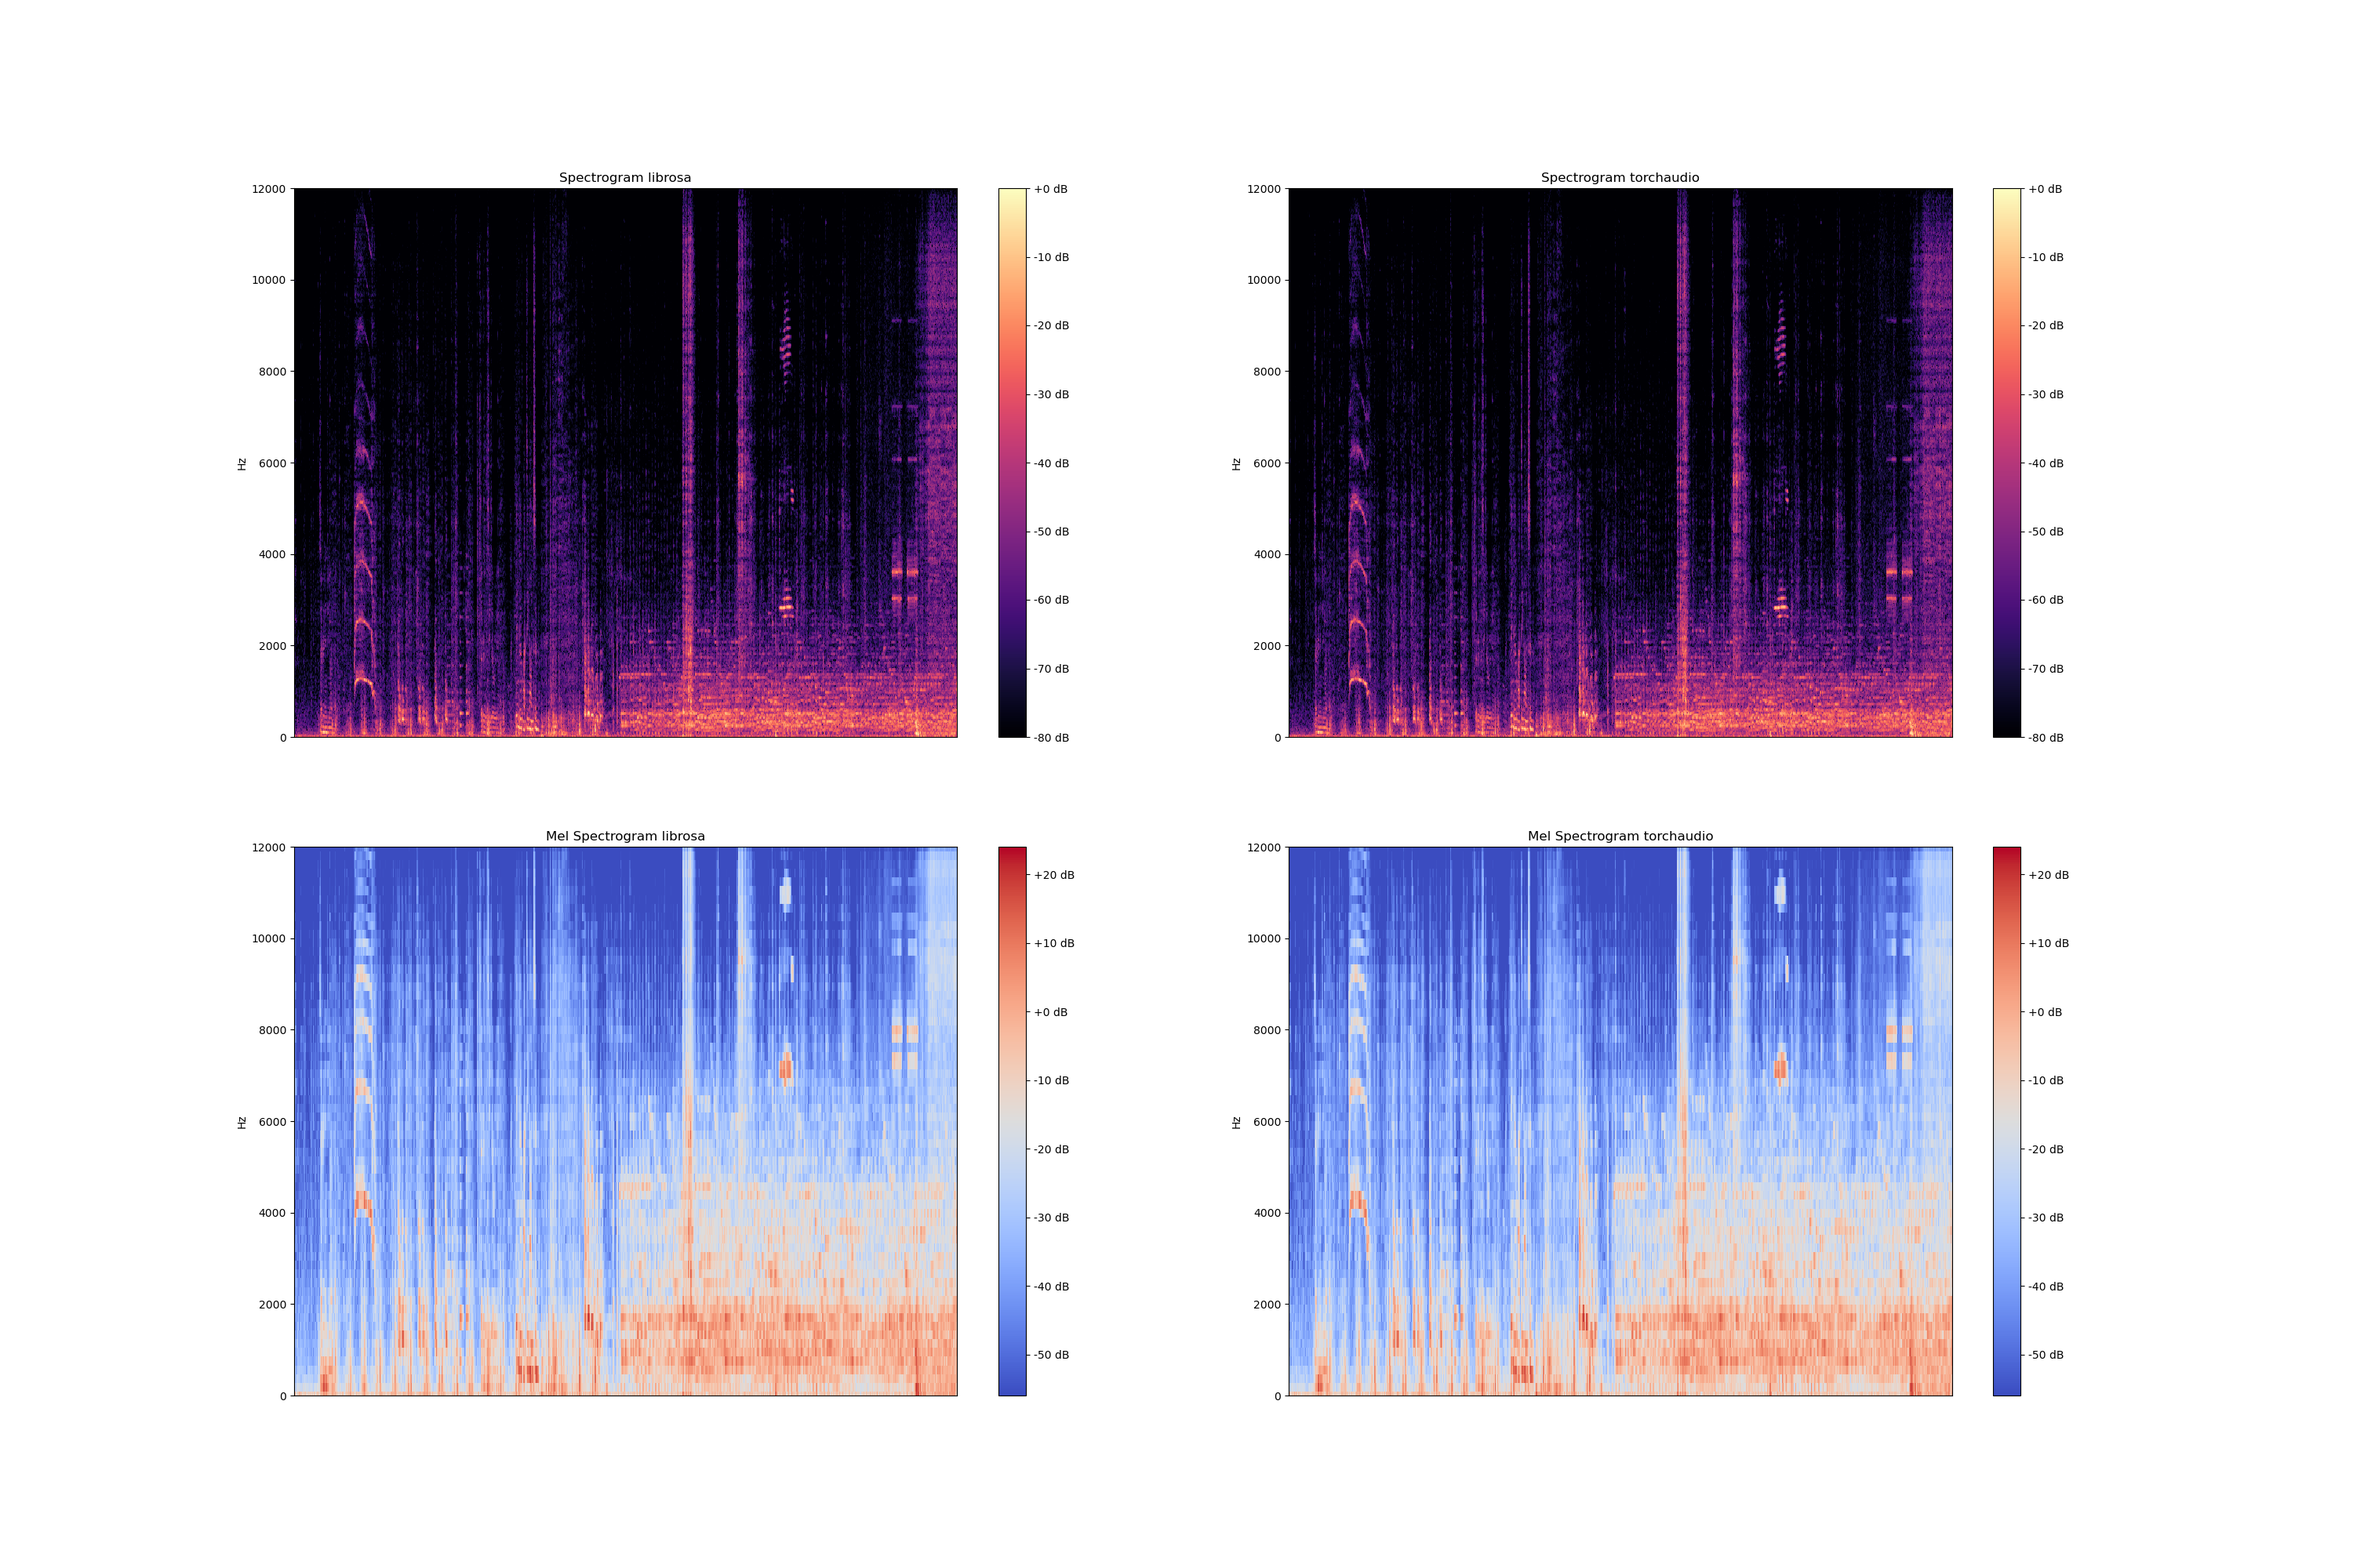
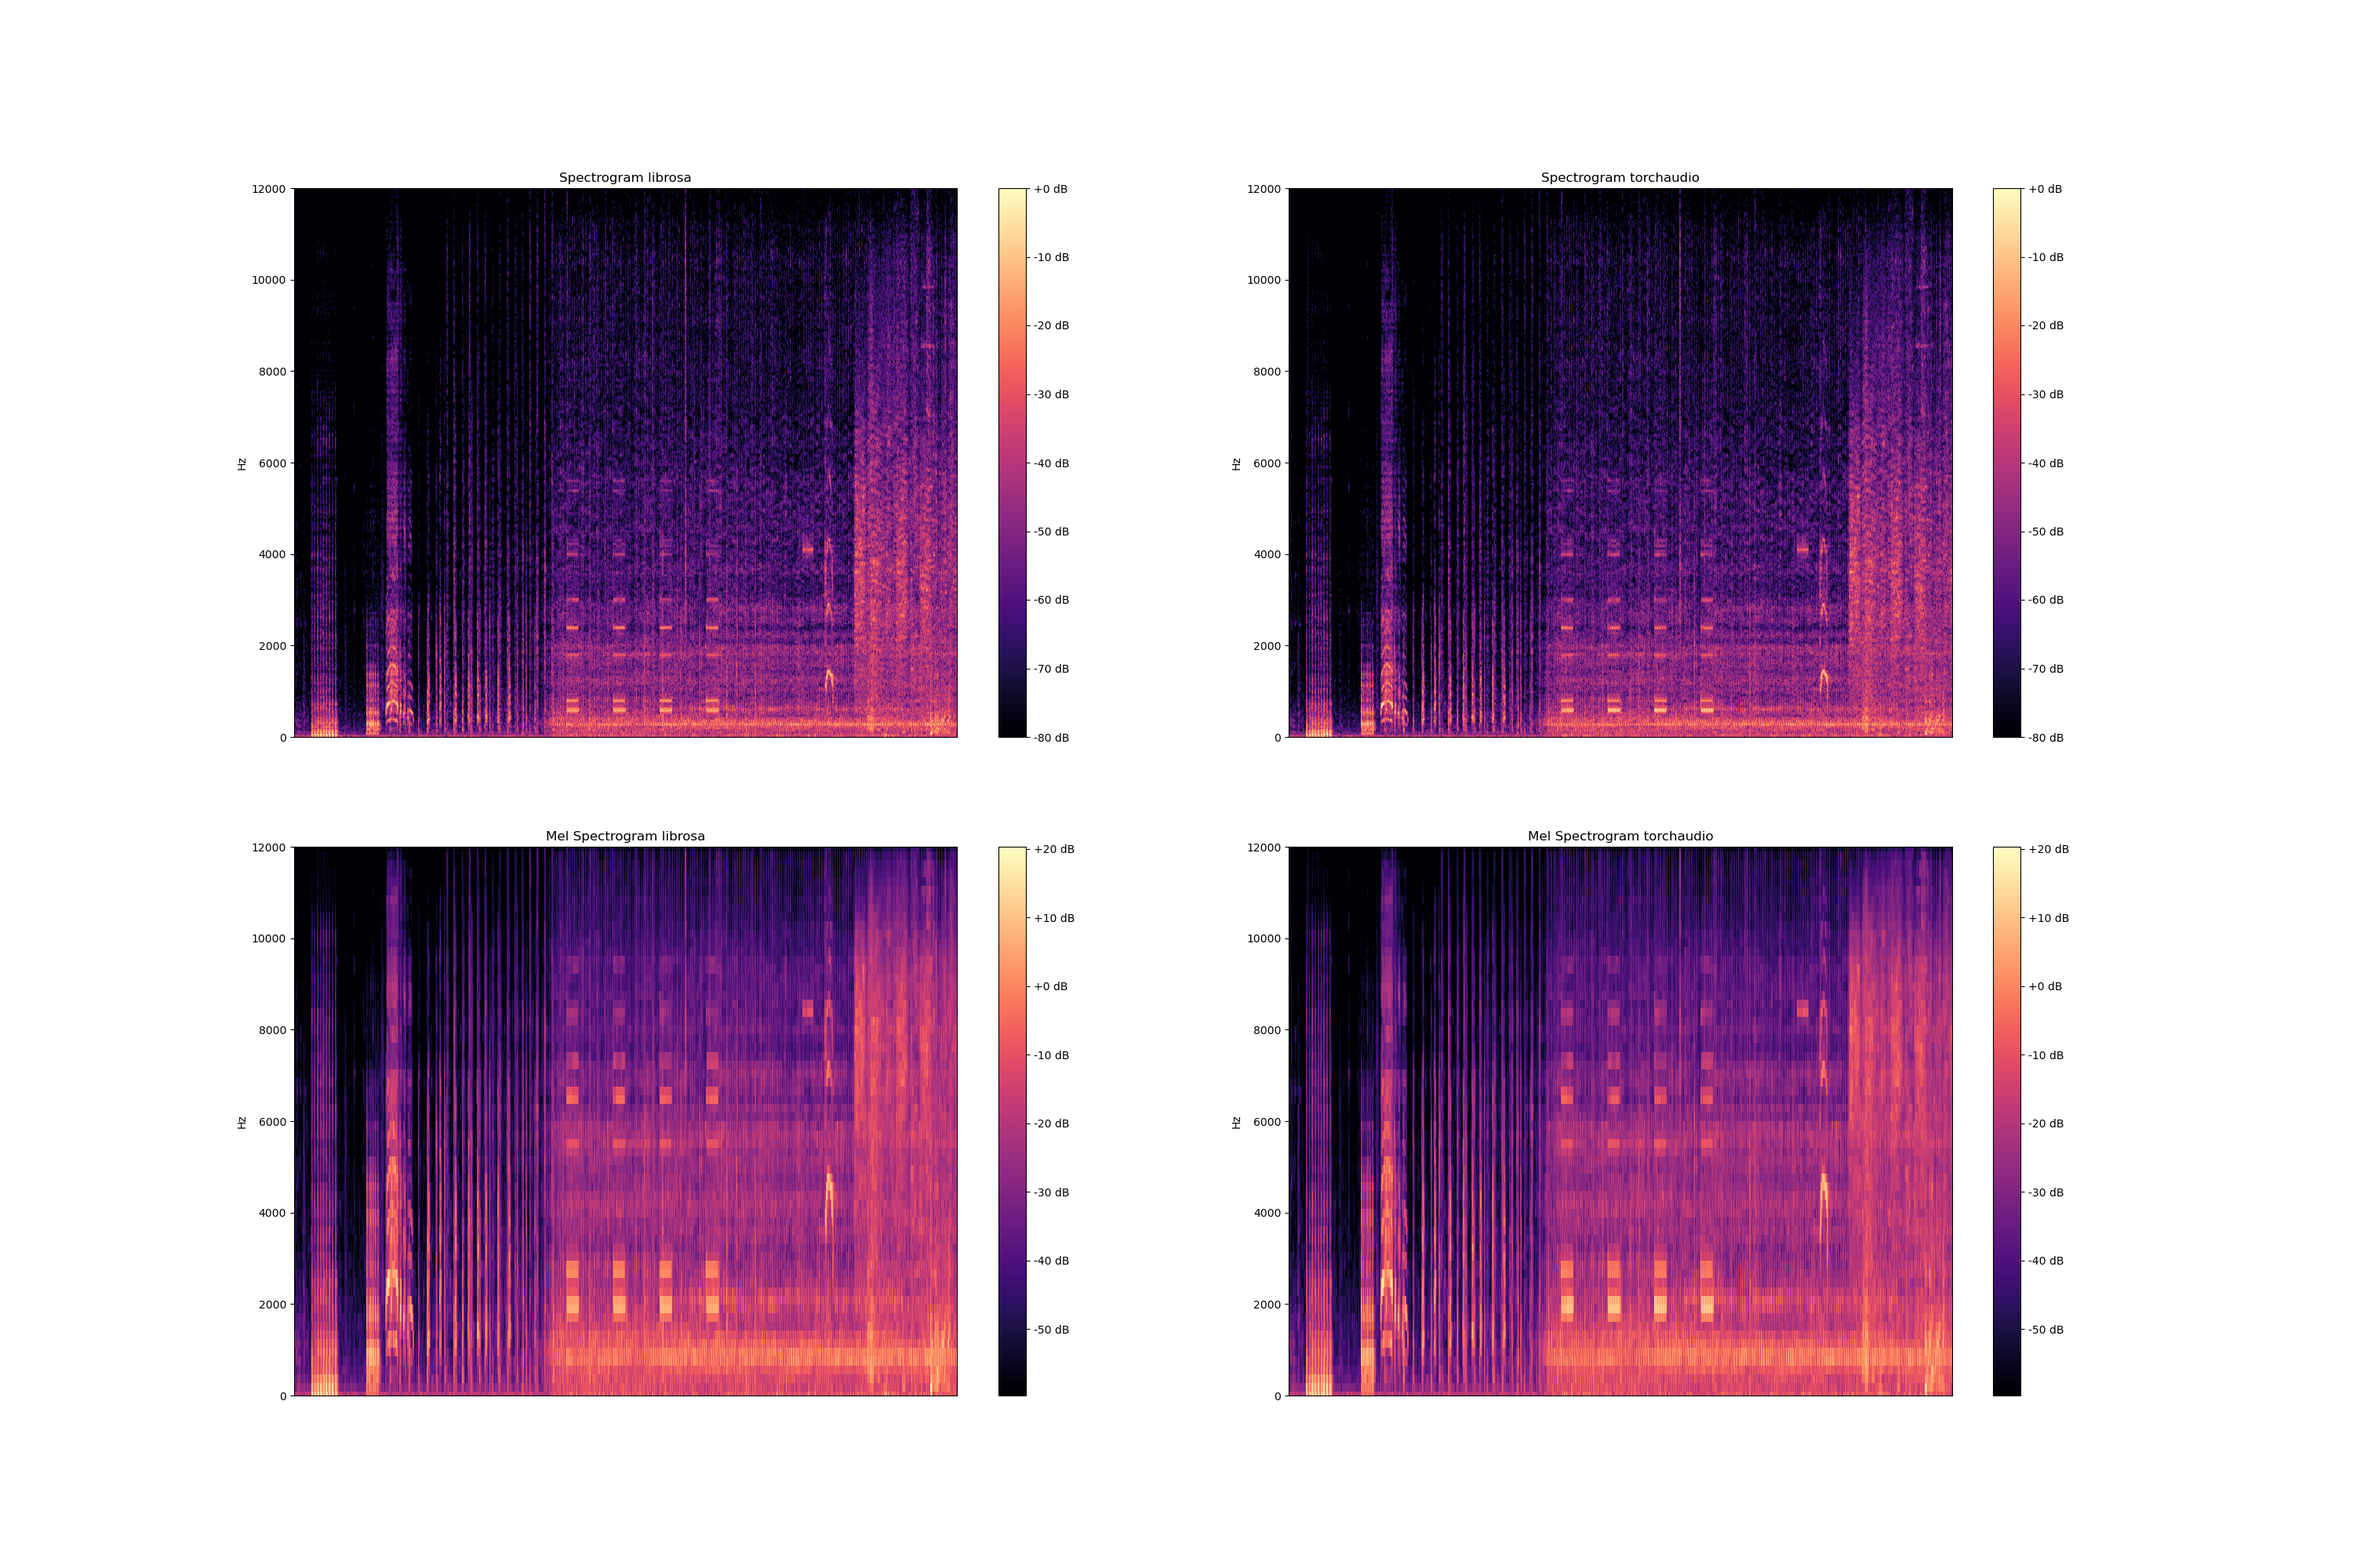
re-organize solver

diff --git a/solver.py b/solver.py
@@ -95,9 +95,9 @@ class Solver(object):
 
                 loss.backward()
                 self.optimizer.step()
-                self.scheduler.step()
-
                 train_loss += loss.item()
+
+            self.scheduler.step()
             self.tr_loss[epoch_cnt] = train_loss / len(self.train_dataloader)
             print("Epoch [%d/%d], train loss : %.4f" % (epoch_cnt + 1, self.nb_epoch, self.tr_loss[epoch_cnt]))
 
@@ -107,11 +107,9 @@ class Solver(object):
 
             sed_pred = evaluation_metrics.reshape_3Dto2D(sed_out) > 0.5
             sed_pred = sed_pred.cpu().detach().numpy()
-            doa_pred = evaluation_metrics.reshape_3Dto2D(
-                doa_out if self.params.doa_objective is 'mse' else doa_out[:, :,
-                                                                   self.nb_classes:]).cpu().detach().numpy()
+            doa_pred = evaluation_metrics.reshape_3Dto2D(doa_out).cpu().detach().numpy()
             sed_gt = evaluation_metrics.reshape_3Dto2D(sed_label.cpu()).detach().numpy()
-            doa_gt = evaluation_metrics.reshape_3Dto2D(doa_label.cpu()).detach().numpy()[:, self.nb_classes:]
+            doa_gt = evaluation_metrics.reshape_3Dto2D(doa_label.cpu()).detach().numpy()
 
             # Calculate the DCASE 2020 metrics - Location-aware detection and Class-aware localization scores
             cls_metric = SELD_evaluation_metrics.SELDMetrics(nb_classes=self.nb_classes,

diff --git a/parameter.py b/parameter.py
@@ -11,7 +11,7 @@ def get_params():
     parser.add_argument('--dataset', type=str, default='foa',
                         help='foa - ambisonic or mic - microphone signals')
 
-    parser.add_argument('--input', type=str, default='raw',
+    parser.add_argument('--input', type=str, default='mel',
                         help='determine which input format to use: mel or raw audio')
     parser.add_argument('--model', type=str, default='crnn',
                         help='if input==mel, choose resnet or crnn')
@@ -55,7 +55,7 @@ def get_params():
     parser.add_argument('--lr', type=float, default=0.001)
     parser.add_argument('--scheduler', type=str, default='steplr')
     parser.add_argument('--dropout_rate', type=float, default=0.3)
-    parser.add_argument('--doa_objective', type=str, default='masked_mse',
+    parser.add_argument('--doa_objective', type=str, default='mse',
                         help='supports: mse, masked_mse. mse- original seld approach; masked_mse - dcase 2020 approach')
 
     # METRIC PARAMETERS

diff --git a/data_loader.py b/data_loader.py
@@ -7,8 +7,8 @@ import random
 import torch
 
 ''' data output format: n_samples x channels x sequence length x n_mel (4000 x 7 x 300 x 64)
-    label output format: list[n_samples x sequence length x 14, n_samples x sequence length x 56]
-                             [SED, SED+DOA] 4000 x 60 x (56 and 14)'''
+    label output format: list[n_samples x sequence length x 14, n_samples x sequence length x 42]
+                             [SED, DOA] 4000 x 60 x (42 and 14)'''
 
 
 class Tau_Nigens(Dataset):
@@ -92,7 +92,8 @@ class Tau_Nigens(Dataset):
     def get_all_label(self):
         label = []
         for file in self._filenames_list:
-            file = file.split('.')[0] + ".npy"
+            if self._input == "raw":
+                file = file.split('.')[0] + ".npy"
             temp_label = np.load(os.path.join(self._label_dir, file))
             temp = []
             for row in temp_label:

diff --git a/test_code.py b/test_code.py
@@ -128,13 +128,13 @@ class FeatureClass:
 if __name__ == "__main__":
     # params = parameter.get_params()
     # feature = cls_feature_class.FeatureClass(params)
-    # audio, fs = feature._load_audio('../Datasets/SELD/foa_dev/fold1_room1_mix001_ov1.wav')
-    # stft = np.abs(np.squeeze(feature._spectrogram(audio[:, :1])))
+    # audio, fs = feature.load_audio('../Datasets/SELD/foa_dev/fold1_room1_mix001_ov1.wav')
+    # stft = np.abs(np.squeeze(feature.spectrogram(audio[:, :1])))
     # stft = librosa.amplitude_to_db(stft, ref=np.max)
     # librosa.display.specshow(stft.T, sr=fs, x_axis='s', y_axis='linear')
     # plot.show()
-
-
+    #
+    #
     # waveform, sample_rate = feature.load_audio('dataset/foa_dev/fold1_room1_mix001_ov1.wav')
     #
     # print("waveform", waveform.shape)

diff --git a/utils/plot_spectrogram.py b/utils/plot_spectrogram.py
@@ -11,7 +11,7 @@ import feature_class
 # librosa
 params = parameter.get_params()
 aud_dir = os.path.join(params.dataset_dir, 'foa_dev')
-filename = '../../Datasets/SELD2021/foa_dev/fold1_room1_mix002.wav'
+filename = '../../Datasets/SELD2021/foa_dev/fold1_room1_mix003.wav'
 
 feat_cls = cls_feature_class.FeatureClass(params)
 audio, fs = feat_cls.load_audio(filename)
